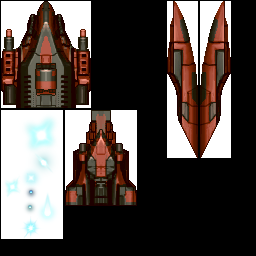
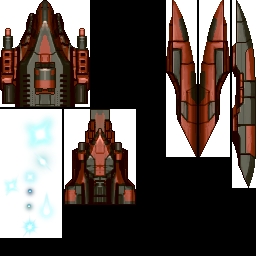
border api

diff --git a/pypack2d/pack2d/packer/packer.py b/pypack2d/pack2d/packer/packer.py
@@ -1,11 +1,13 @@
 from pypack2d.pack2d.packer.bin_set import BinSet
-from pypack2d.pack2d.settings import BorderMode, RotateMode
+from pypack2d.pack2d.settings import BorderMode, RotateMode, BorderType
 from pypack2d.pack2d.border import Border
 
 
-class BinPackerError(BaseException):
+class BinPackerError(Exception):
     pass
 
+class AbortError(Exception):
+    pass
 
 class ManualAbort(object):
     def __init__(self):
@@ -14,7 +16,7 @@ class ManualAbort(object):
 
     def abort_on_count(self, limit):
         if self.debugCount >= limit:
-            raise BaseException()
+            raise AbortError("Abort on count")
 
         self.debugCount += 1
 
@@ -75,24 +77,33 @@ class BinPacker(object):
         raise NotImplementedError()
 
     def set_border(self, bin):
-        if self.settings.border_mode == BorderMode.NONE:
+        border = self.settings.border
+        border_mode = self.settings.border_mode
+        if border is None or border_mode == BorderMode.NONE:
             return
+        border_type = border.get("type", BorderType.SOLID)
+        border_color = border.get("color", "#000")
 
-        elif self.settings.border_mode == BorderMode.STRICT:
-            border = Border(border=self.settings.border)
-            bin.set_border(border)
+        if "rect" in border:
+            bin_border = Border.from_rect(border_type, border_color, border["rect"])
+            if border_mode != BorderMode.STRICT:
+                raise BinPackerError("Border rect can be specified only for STRICT border mode")
+        elif "size" in border:
+            bin_border = Border.from_size(border_type, border_color, border["size"])
+        else:
+            raise BinPackerError("border settings must have either rect or size attribute")
+            # border=Border(self.settings.type, self.settings.color, bbox=self.settings.border.bbox)
 
-        elif self.settings.border_mode == BorderMode.AUTO:
-            border = Border(border_size=self.settings.border_size, type=self.settings.border.type,
-                            color=self.settings.border.color)
-            bin.set_border(border)
+        if border_mode != BorderMode.AUTO and "size" not in border:
+            raise BinPackerError("Border mode AUTO expects size attribute")
+
+        bin.set_border(bin_border)
 
     def normalise_border(self):
-
         realWidth = self.max_width - self.settings.border_size * 2
         realHeight = self.max_height - self.settings.border_size * 2
         for bin in self.binSet:
-            border = bin.getBorder()
+            border = bin.border
             if bin.top is 0:
                 border.top = 0
 

diff --git a/pypack2d/pack2d/border.py b/pypack2d/pack2d/border.py
@@ -1,29 +1,27 @@
 class Border(object):
-    def __init__(self, bbox=None, border=None, border_size=None, type=None, color=None):
-        self.left = None
-        self.top = None
-        self.right = None
-        self.bottom = None
-        self.type = None
-        self.color = None
-
-        if bbox is not None:
-            self.init(bbox[0], bbox[1], bbox[2], bbox[3], type, color)
-
-        elif border is not None:
-            self.init(border.left, border.top, border.right, border.bottom, border.type, border.color)
-            return
-
-        elif border_size is not None:
-            self.init(border_size, border_size, border_size, border_size, type, color)
-
-    def init(self, left, top, right, bottom, type=None, color=None):
+    def __init__(self, border_type, color, left, top, right, bottom):
         self.left = left
         self.top = top
         self.right = right
         self.bottom = bottom
-        self.type = type
+        self.type = border_type
         self.color = color
+
+    @staticmethod
+    def empty():
+        return Border.from_size(None, None, 0)
+
+    @staticmethod
+    def from_border(border):
+        return Border(border.type, border.color, border.left, border.top, border.right, border.bottom)
+
+    @staticmethod
+    def from_size(border_type, color, size):
+        return Border(border_type, color, size, size, size, size)
+
+    @staticmethod
+    def from_rect(border_type, color, rect):
+        return Border(border_type, color, rect[0], rect[1], rect[2], rect[3])
 
     def is_empty(self):
         if self.left == 0 and self.right == 0 and self.top == 0 and self.bottom == 0:

diff --git a/main.py b/main.py
@@ -1,5 +1,3 @@
-import glob
-
 import pypack2d
 from pypack2d.pack2d.border import Border
 
@@ -14,17 +12,16 @@ settings = dict(
     rotate_mode=pypack2d.RotateMode.AUTO,
     max_width=256,
     max_height=256,
-    border=Border(border_size=1, type=pypack2d.BorderType.SOLID, color="#000"),
-    border_mode = pypack2d.BorderMode.STRICT,
-    # border_mode=pypack2d.BorderMode,
-    border_size=0,
+    # border=dict(rect=(1, 1, 1, 1), type=pypack2d.BorderType.SOLID, color="#000"),
+    border=dict(size=1, type=pypack2d.BorderType.SOLID, color="#000"),
+    border_mode=pypack2d.BorderMode.AUTO,
     split_rule=pypack2d.GuillotineSplitRule.SHORTER_AXIS,
     debug=True,
 )
-
 
 generator = pypack2d.generator("img/res", settings, file_prefix="atlas")
 
 generator.add_glob("img/src/*.png")
 
-generator.generate()
+stats = generator.generate()
+print("Count images: %i efficiency : %4.2f " % (stats["count"], stats["efficiency"]))

diff --git a/pypack2d/atlas.py b/pypack2d/atlas.py
@@ -215,10 +215,6 @@ class AtlasGenerator(object):
         eff = total / len(binSets)
         return dict(count=len(binSets), efficiency=eff)
 
-    def report(self, binSets):
-        stats = self.stats(binSets)
-        print("Count images: %i efficiency : %4.2f " % (stats["count"], stats["efficiency"]))
-
     def generate(self):
         self.packing.pack()
 
@@ -228,8 +224,8 @@ class AtlasGenerator(object):
         binSets = self.packing.get_result()
         self._work_with_result(binSets)
 
-        if self.packing_settings.debug is True:
-            self.report(binSets)
+        stats = self.stats(binSets)
+        return stats
 
     def get_wasted_images(self):
         return self.wasted_images

diff --git a/pypack2d/pack2d/settings.py b/pypack2d/pack2d/settings.py
@@ -101,7 +101,6 @@ class PackingSettings(object):
                  max_height=1024,
                  border=None,
                  border_mode=BorderMode.NONE,
-                 border_size=None,
                  split_rule=None,
                  debug=False
                  ):
@@ -118,7 +117,10 @@ class PackingSettings(object):
         self.max_height = max_height
         self.border = border
         self.border_mode = border_mode
-        self.border_size = border_size
 
         self.split_rule = split_rule
         self.debug = debug
+
+    @property
+    def border_size(self):
+        return self.border["size"]

diff --git a/pypack2d/pack2d/bin.py b/pypack2d/pack2d/bin.py
@@ -5,7 +5,7 @@ from pypack2d.pack2d.border import Border
 class BinBase(Rectangle):
     def _on_init(self):
         self.rotate = False
-        self.border = Border(bbox=(0, 0, 0, 0))
+        self.border = Border.empty()
 
     def set_border(self, border):
         self.border = border
